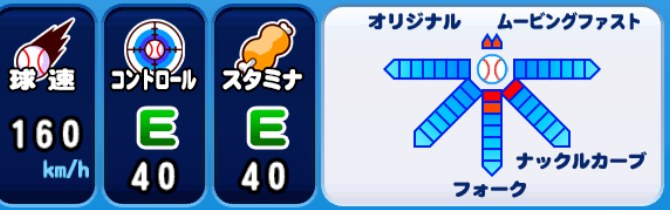
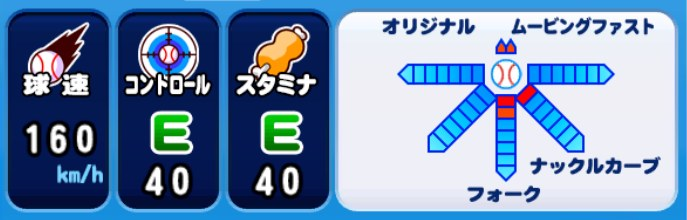
能力画像の切り抜きを水色の縁まで広げる
Claude-Session: https://claude.ai/code/session_01VucsqD42z2RKw9YcSnTARR

diff --git a/README.md b/README.md
@@ -24,7 +24,7 @@
 - 育成結果 `r`：484×104。表示はどのデッキも同じ大きさ（`.top img` で幅 min(242px, 画面幅−165px)。無課金タグの有無で変えない）。ランクアイコン＋ポジション帯＋総経験点だけ。黄色の縁取りは付けない（アンドロメダ学園と同じサイズ・見た目）。
 - メインデッキ `d`：6人分を横一列。名前は入れない。
 - サポートデッキ `s`：3人分。表示幅は CSS で「メインデッキの0.517倍」に固定してあり、1キャラのアイコンがメインと同じ大きさになる（ゲーム画面ではサポートのアイコンが約1.13倍大きいため）（`.subdeck`）。切り抜きはメイン画像と同じ縮尺で、横幅は約385pxを目安にする。
-- 育成した選手の能力 `a`（任意）：選手の能力画面（投手能力データ／野手能力データ）のスクショから、能力が並ぶ帯だけを切り抜く。幅750pxの画面なら (40,415)〜(710,625)。投手は球速・コントロール・スタミナ＋変化球の図、野手は弾道〜捕球の7項目。選手名・高校名・特殊能力の欄は入れない。ページでは「育成のポイント」と「解説動画」の間に幅いっぱい（最大520px）で表示。`a` が無いデッキは何も表示しない。
+- 育成した選手の能力 `a`（任意）：選手の能力画面（投手能力データ／野手能力データ）のスクショから、能力が並ぶ帯だけを切り抜く。幅750pxの画面なら (26,410)〜(713,630)（左右・上下の水色の縁は残す）。投手は球速・コントロール・スタミナ＋変化球の図、野手は弾道〜捕球の7項目。選手名・高校名・特殊能力の欄は入れない。ページでは「育成のポイント」と「解説動画」の間に幅いっぱい（最大520px）で表示。`a` が無いデッキは何も表示しない。
 - 基礎上限 `u`：投手デッキは球速・コントロール・スタミナの3種だけを切り抜く（`.baseimg.half`で半分の幅で表示）。野手デッキは6種。
 
 **表の表記（投手デッキ＝roman。deck.js が自動で行うので decks.js には略称を書かない）**
